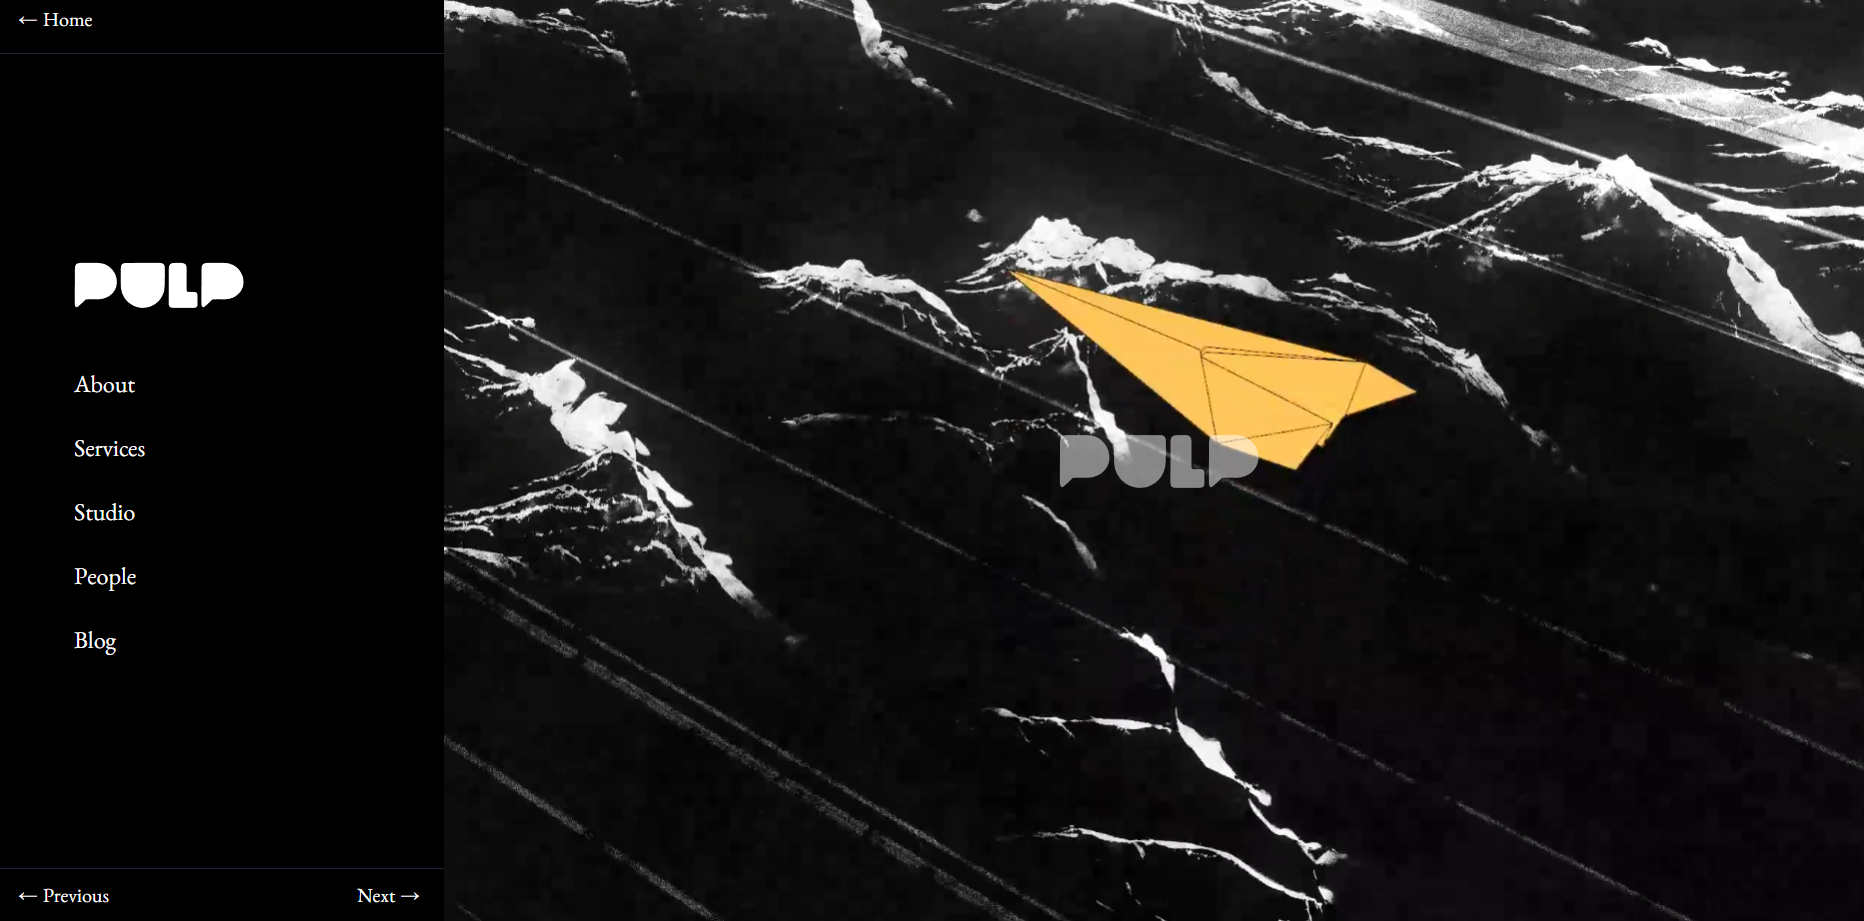
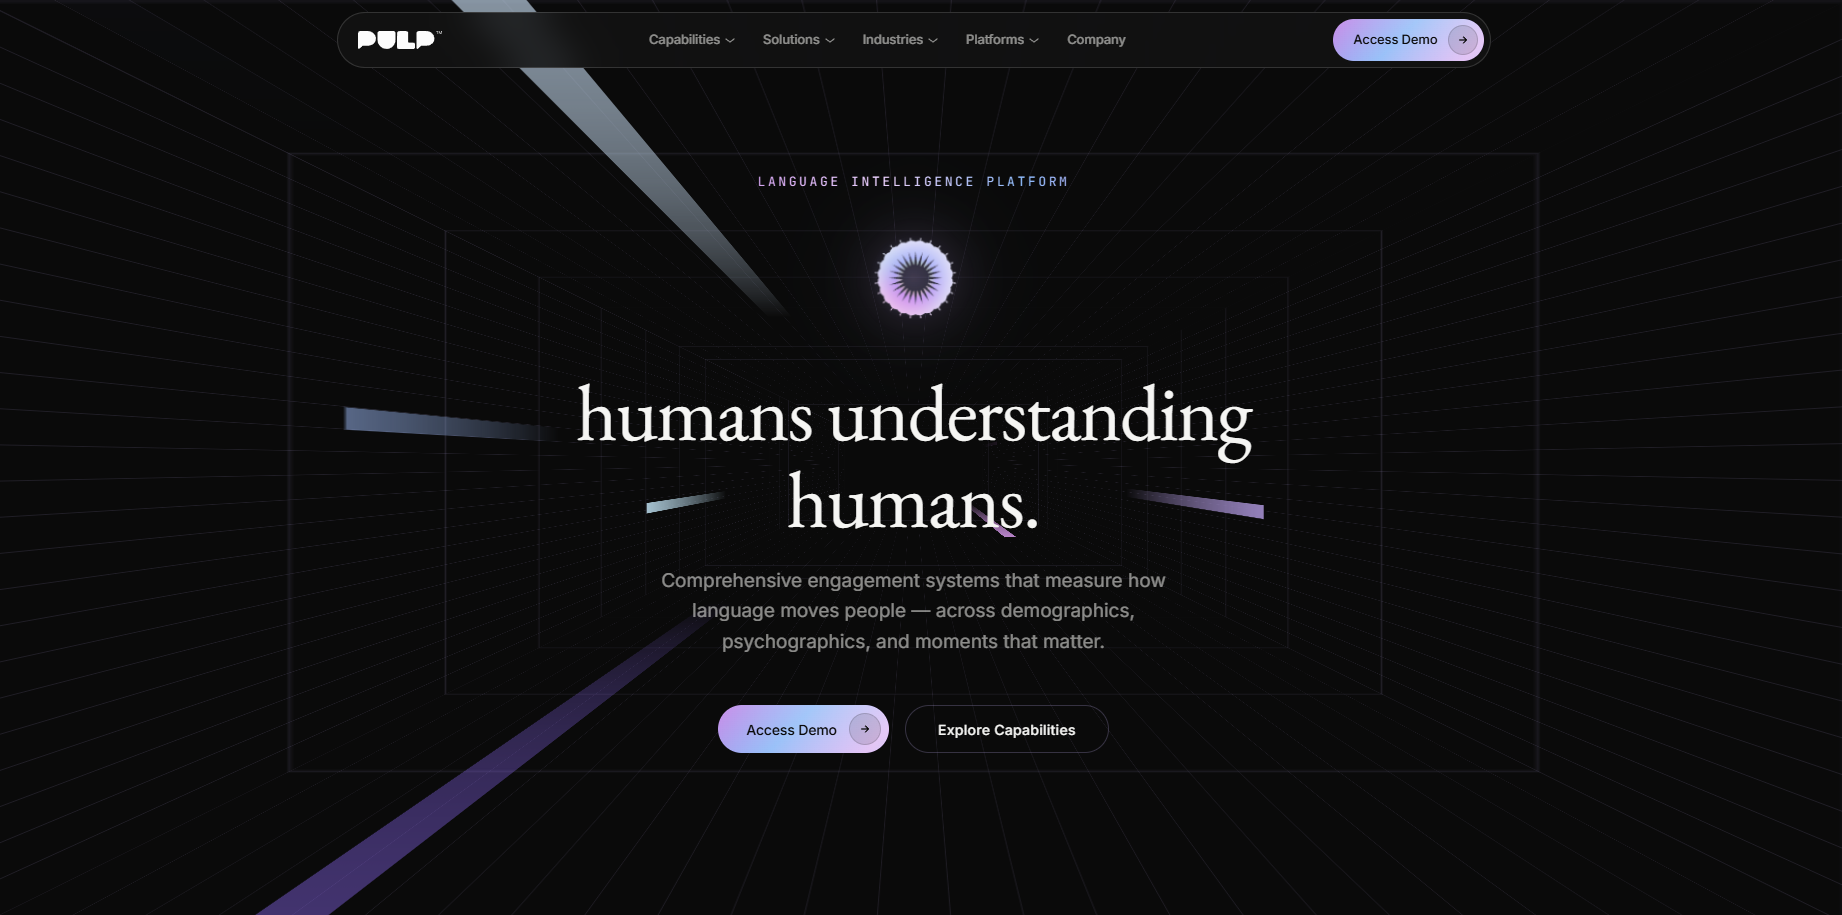
added accenture internship to timeline

diff --git a/src/components/timeline.tsx b/src/components/timeline.tsx
@@ -42,6 +42,42 @@ export function MyTimeline() {
 
   const timelineItems = [
     {
+      title: "May, 2026",
+      content: (
+        <div className="mb-6 p-4 rounded-lg bg-white/5 border border-white/10">
+          <div className="flex flex-col sm:flex-row items-center gap-4">
+            <a
+              href="https://www.accenture.com/us-en"
+              target="_blank"
+              rel="noopener noreferrer"
+              className="flex-shrink-0 flex items-center justify-center"
+            >
+              <div className="w-16 h-16 sm:w-20 sm:h-20 flex items-center justify-center">
+                <Image
+                  src="/icons/timeline-icons/accenture-logo.png"
+                  alt="Accenture"
+                  width={80}
+                  height={80}
+                  className="object-contain rounded-lg"
+                />
+              </div>
+            </a>
+            <p className="text-white text-sm sm:text-base leading-relaxed flex-1">
+              Began internship as a Technology Analyst Intern at {" "}
+              <LinkPreview
+                url="https://www.accenture.com/us-en"
+                isStatic={true}
+                imageSrc="/img/link-previews/timeline/accenture-preview.png"
+                className="text-blue-400 hover:text-blue-300 transition-colors font-medium underline decoration-blue-400/30 hover:decoration-blue-300/50"
+              >
+                  Accenture
+                </LinkPreview>.
+            </p>
+          </div>
+        </div>
+      ),
+    },
+    {
       title: "October, 2025",
       content: (
         <div className="mb-6 p-4 rounded-lg bg-white/5 border border-white/10">
@@ -227,7 +263,12 @@ export function MyTimeline() {
             </a>
             <p className="text-white text-sm sm:text-base leading-relaxed flex-1">
               Concluded internship as a Software Engineer & Project Management Intern at {" "}
-              <LinkPreview url="https://pulp.com.ai/" className="text-blue-400 hover:text-blue-300 transition-colors font-medium underline decoration-blue-400/30 hover:decoration-blue-300/50">
+              <LinkPreview
+                url="https://pulp.com.ai/"
+                isStatic={true}
+                imageSrc="/img/link-previews/timeline/pulp-preview.png"
+                className="text-blue-400 hover:text-blue-300 transition-colors font-medium underline decoration-blue-400/30 hover:decoration-blue-300/50"
+              >
                 Pulp Internet Corporation
               </LinkPreview>, contributing to core product development, leading Agile sprints, securing investments, visualizing data, and building infrastructure across web, mobile, and cloud platforms.
             </p>
